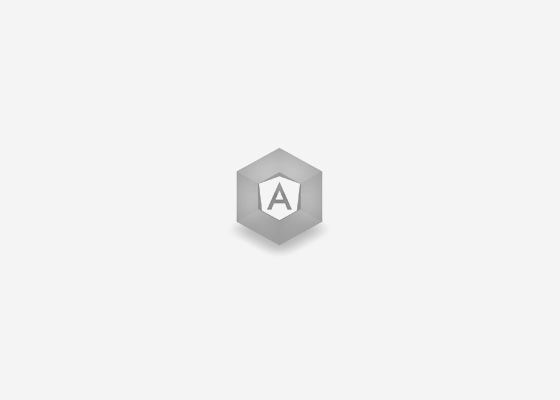
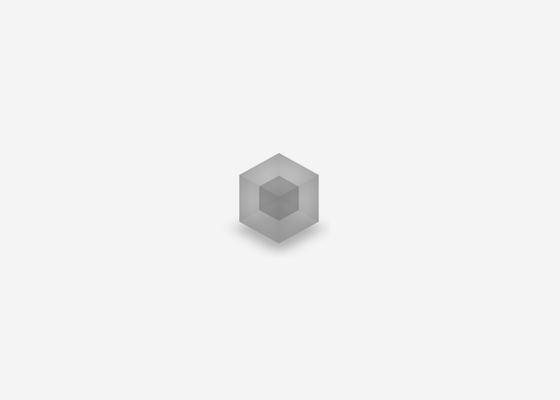
add post(webpack2)

diff --git a/index.html b/index.html
@@ -103,8 +103,9 @@
                 <div class="box">
                   <div class="pf-column">
                     <div class="thumb-img webpack-thumb"></div>
-                    <p>Webpack + Angular + Babel<br /><span class="pf-date">2017-04</span></p>
-                    <a class="area-link" href="https://github.com/falsy/webpack-angular-es6-quickstart" target="_blank"></a>
+                    <p>Webpack2<br /><span class="pf-date">2017-05</span></p>
+                    <span class="type">in progress</span>
+                    <a class="area-link" href="https://github.com/falsy/webpack2-quickstart" target="_blank"></a>
                   </div>
                   <div class="pf-column">
                     <div class="thumb-img mongo-thumb"></div>
@@ -113,6 +114,11 @@
                   </div>
                 </div>
                 <div class="box">
+                  <div class="pf-column">
+                    <div class="thumb-img webpack-angular-thumb"></div>
+                    <p>Webpack + Angular + Babel<br /><span class="pf-date">2017-04</span></p>
+                    <a class="area-link" href="https://github.com/falsy/webpack-angular-es6-quickstart" target="_blank"></a>
+                  </div>
                   <div class="pf-column">
                     <div class="thumb-img babel-thumb"></div>
                     <p>Babel<br /><span class="pf-date">2017-03</span></p>
@@ -290,12 +296,14 @@
                   &nbsp;
                 </div>
                 <div class="box">
-                  <p>아무도 답을 내릴 수 없고 
-                  나 역시 가볍게 변하지 않으며 
-                  누구의 마음도 울리지 못하지만 
-                  나는 이야기를 해요. 
-                  아무도 듣고 있지 않는 
-                  나의 이야기를 해요.</p>
+                  <p>
+                    아무도 답을 내릴 수 없고 
+                    나 역시 가볍게 변하지 않으며 
+                    누구의 마음도 울리지 못하지만 
+                    나는 이야기를 해요. 
+                    아무도 듣고 있지 않는 
+                    나의 이야기를 해요.
+                  </p>
                   <p>
                     고요한 공간에 두개의 태양이 지며 
                     하나둘 빛을 잃어가지만 

diff --git a/falsy.css b/falsy.css
@@ -131,10 +131,10 @@ footer .container {background: #f2f4f7; padding-top: 60px; padding-bottom: 100px
 
 .pf-column .thumb-img.js-thumb {background-image:url(./img/js.png);}
 
-
+.pf-column .thumb-img.webpack-thumb {background-image:url(./img/webpack.png);}
 .pf-column .thumb-img.ssh-thumb {background-image:url(./img/ssh.png);}
 .pf-column .thumb-img.nginx-thumb {background-image:url(./img/nginx.png);}
-.pf-column .thumb-img.webpack-thumb {background-image:url(./img/webpack.png);}
+.pf-column .thumb-img.webpack-angular-thumb {background-image:url(./img/webpack-angular.png);}
 .pf-column .thumb-img.mongo-thumb {background-image:url(./img/mongo.png);}
 .pf-column .thumb-img.babel-thumb {background-image:url(./img/babel.png);}
 .pf-column .thumb-img.nvm-thumb {background-image:url(./img/nvm.png);}

diff --git a/README.md b/README.md
@@ -2,6 +2,9 @@
 Personal Website
 
 
+### v6.0.0
+* add post(webpack2)
+
 ### v0.5.9
 * modify visual stlye
 
@@ -10,11 +13,11 @@ Personal Website
 
 ### v0.5.7
 * add post(Nginx and SSH)
-* update post(webpac + angular + es6)
+* update post(webpack + angular + es6)
 
 ### v0.5.5
 * update thumbnail image
-* add post(webpac + angular + es6)
+* add post(webpack + angular + es6)
 
 ### v0.5.3
 * modify footer style
